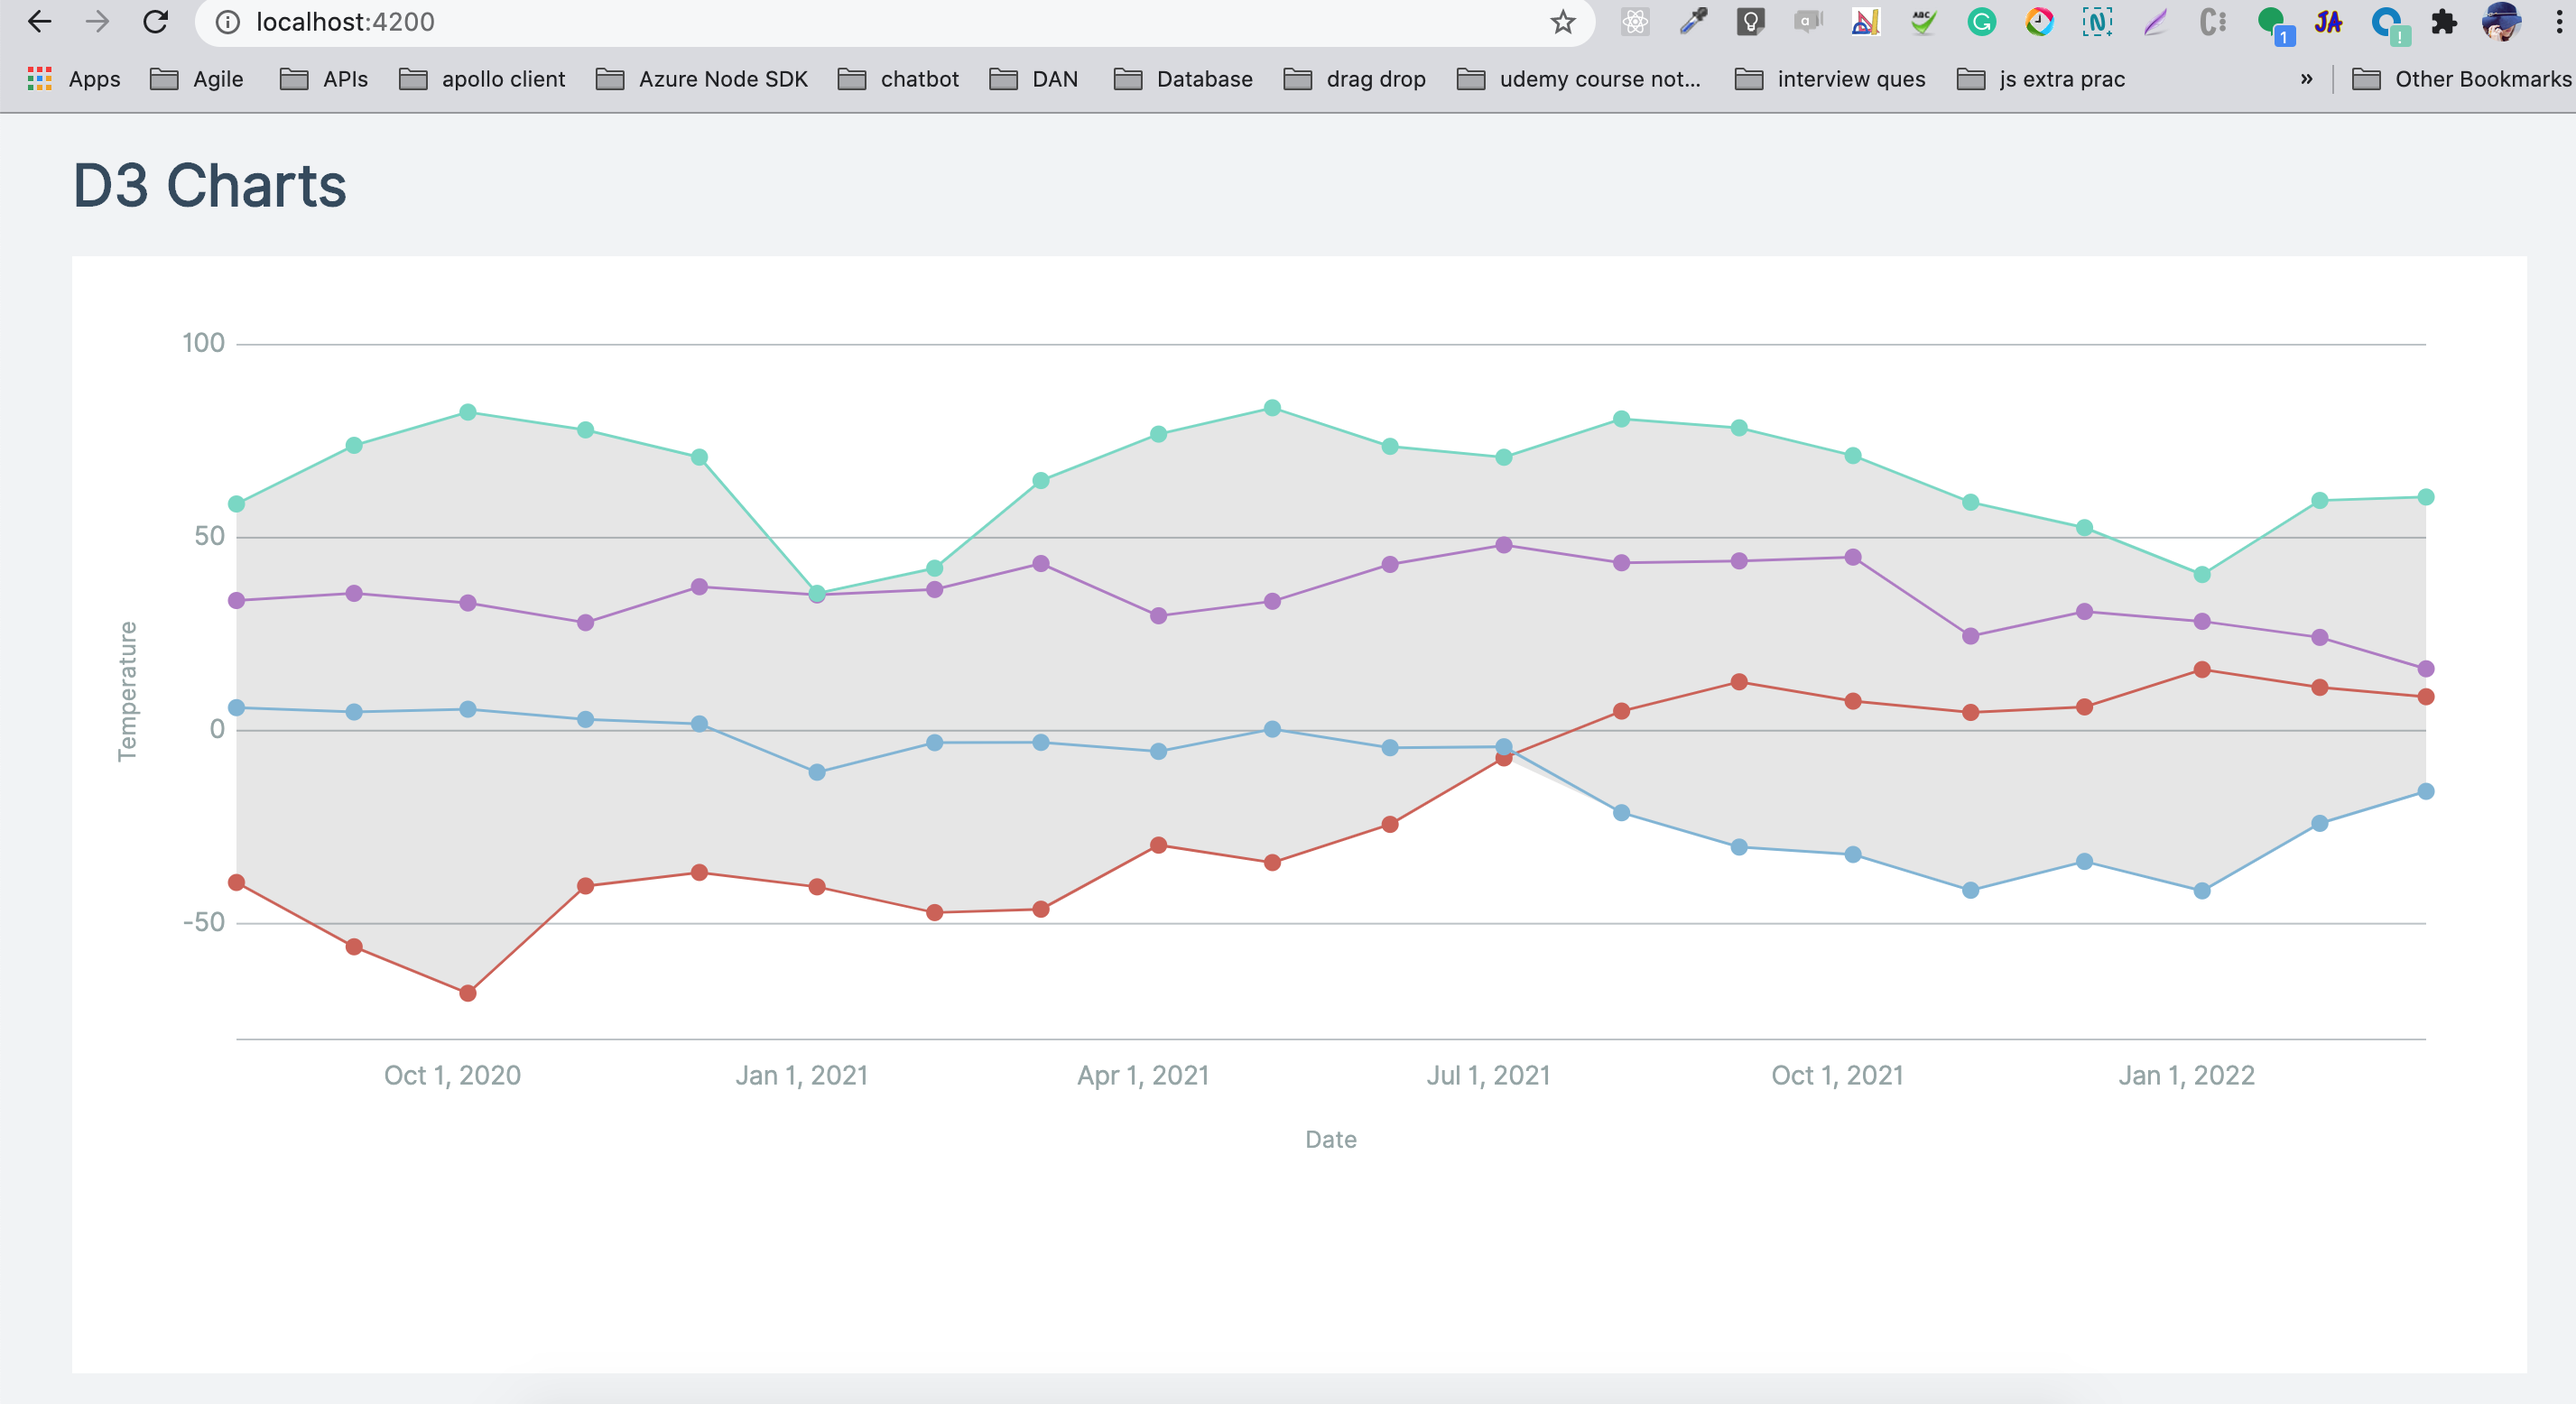
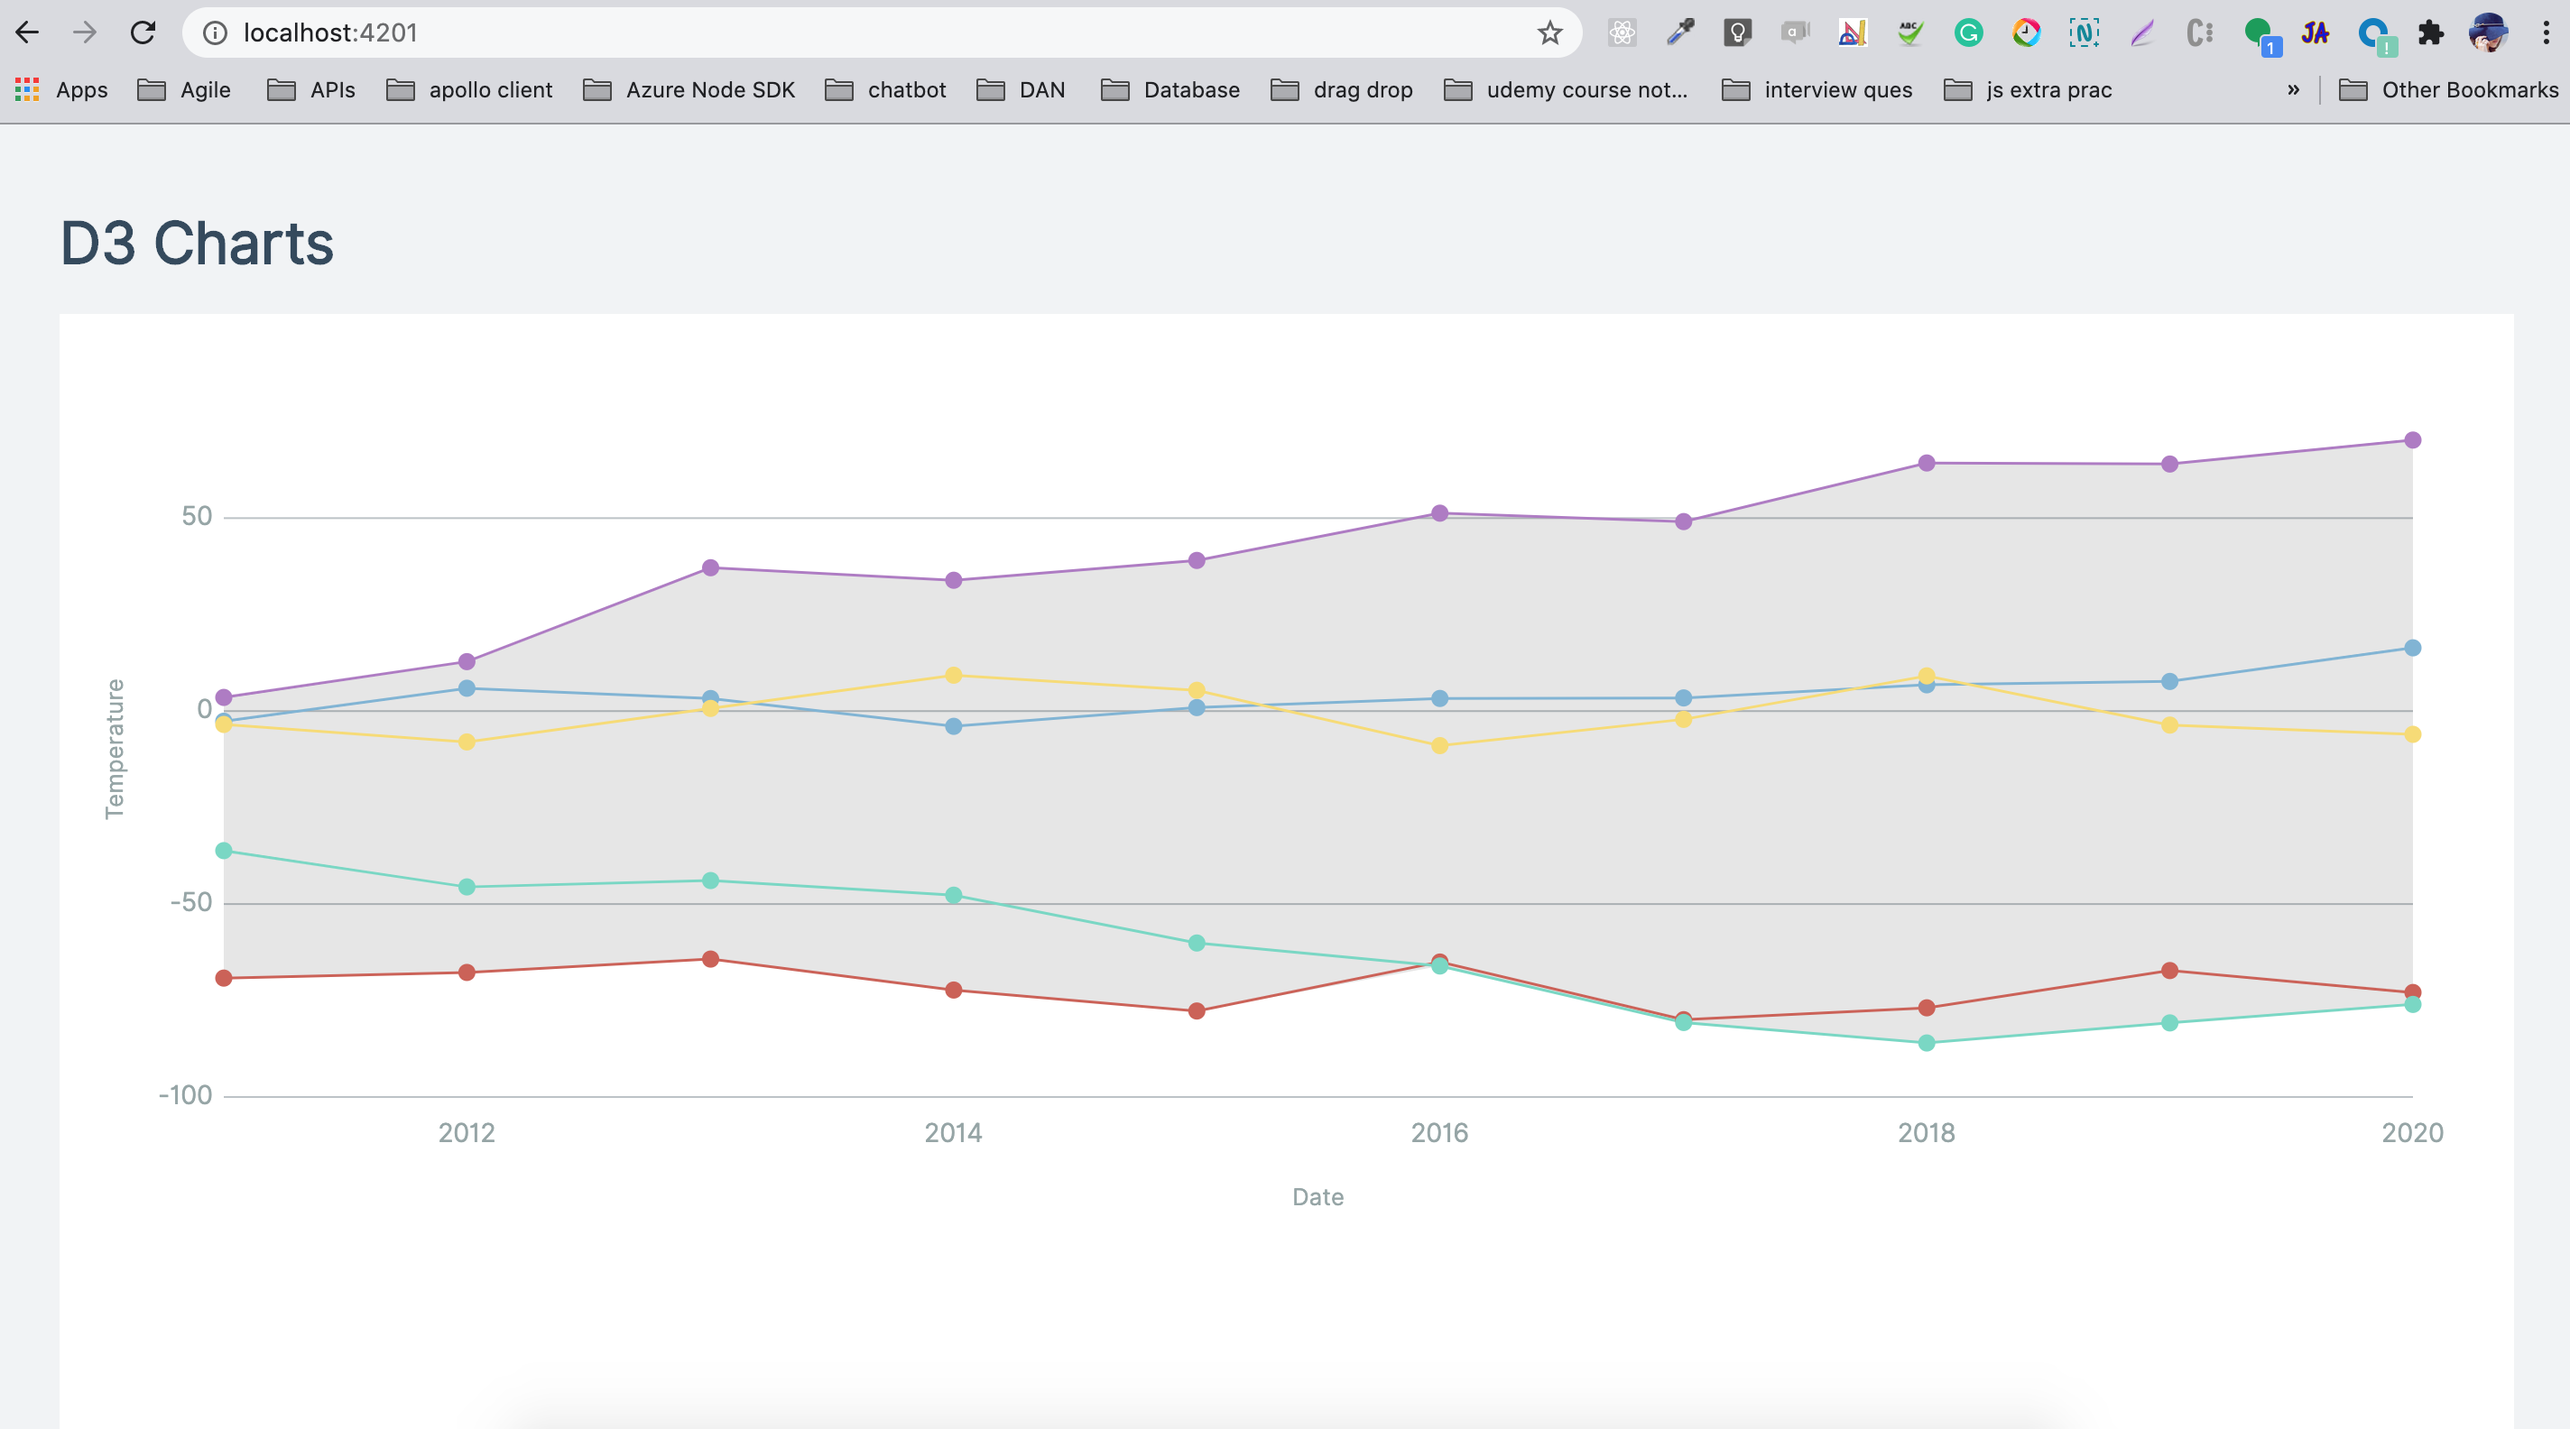
fix in axis labels

diff --git a/src/app/utils/dummyData.js b/src/app/utils/dummyData.js
@@ -6,25 +6,26 @@ const boxMullerRandom = () => (
 )
 const randomAroundMean = (mean, deviation) => mean + boxMullerRandom() * deviation
 
-const today = new Date()
+const today = new Date("2021") // You can add year or start with current year
 const formatDate = d3.timeFormat("%Y-%m-%d")
 
 const colors = ['#CD6155', '#AF7AC5', '#7FB3D5', '#76D7C4', '#F7DC6F', '#F0B27A', '#85929E']
+
 /**
  * @description: method for generating timeline data
  */
-export const getTimelineData = (length = 20) => {
+export const getTimelineData = (length = 10) => {
   let value = randomAroundMean(-5, 40)
-  const firstTemperature = d3.timeDay.offset(today, -length)
-
+  const firstTemperature = d3.timeYear.offset(today, -length)
   return new Array(length).fill(0).map((d, i) => {
     value += randomAroundMean(0, 10)
     return {
-      label: formatDate(d3.timeDay.offset(firstTemperature, i)),
+      label: formatDate(d3.timeYear.offset(firstTemperature, i)),
       value,
     }
   })
 }
+
 /**
  * @description: method for generating data for multiline chart in random manner, it will return a list of temp data with dates for random between min and max
  */

diff --git a/src/app/multiline/multiline.component.ts b/src/app/multiline/multiline.component.ts
@@ -49,6 +49,7 @@ export class MultilineComponent implements AfterContentInit, OnChanges {
 
   @ViewChild('container', { static: true }) container: ElementRef;
   constructor() {
+    // TODO - should be managed globally (from config etc)
     this.dimensions = {
       marginTop: 40,
       marginRight: 40,
@@ -108,7 +109,6 @@ export class MultilineComponent implements AfterContentInit, OnChanges {
   }
 
   getAreaCoordinates(data) {
-    // const sortedRecords = data.sort((a, b) => Date.parse(a.label) - Date.parse(b.label)); -(future scope) for sorting for future or enhancing the feature
     const minGrouped = new Map();
     const maxGrouped = new Map();
 

diff --git a/src/app/app.component.ts b/src/app/app.component.ts
@@ -13,7 +13,7 @@ export class AppComponent {
   multilineData: Array<multilineDataPoint>;
   multilineYLabel = 'Temperature';
   multilineXLabel = 'Date';
-  multilineXFormat = '%-b %-d, %Y';
+  multilineXFormat = '%Y';
 
   constructor() {
     this.multilineData = [];
